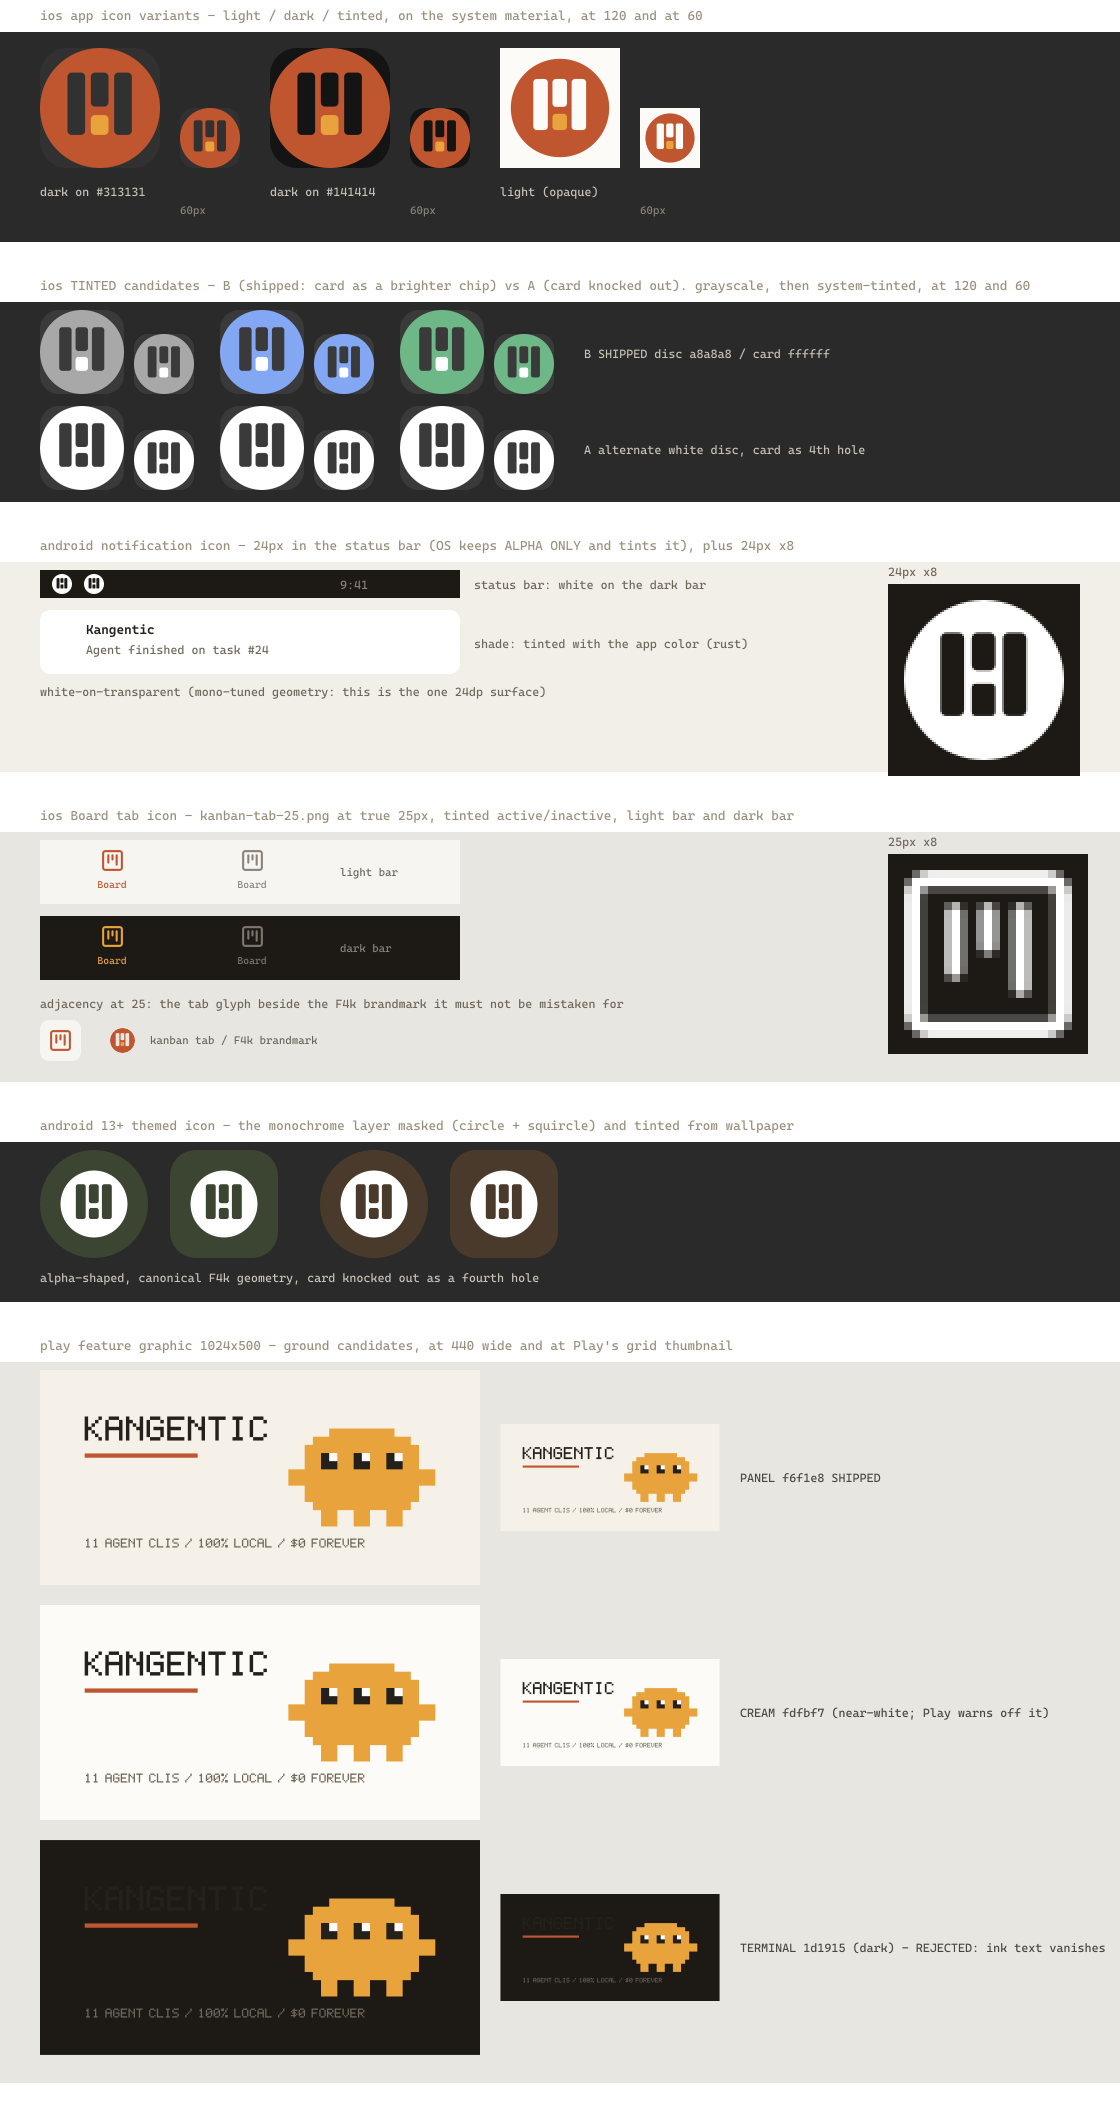
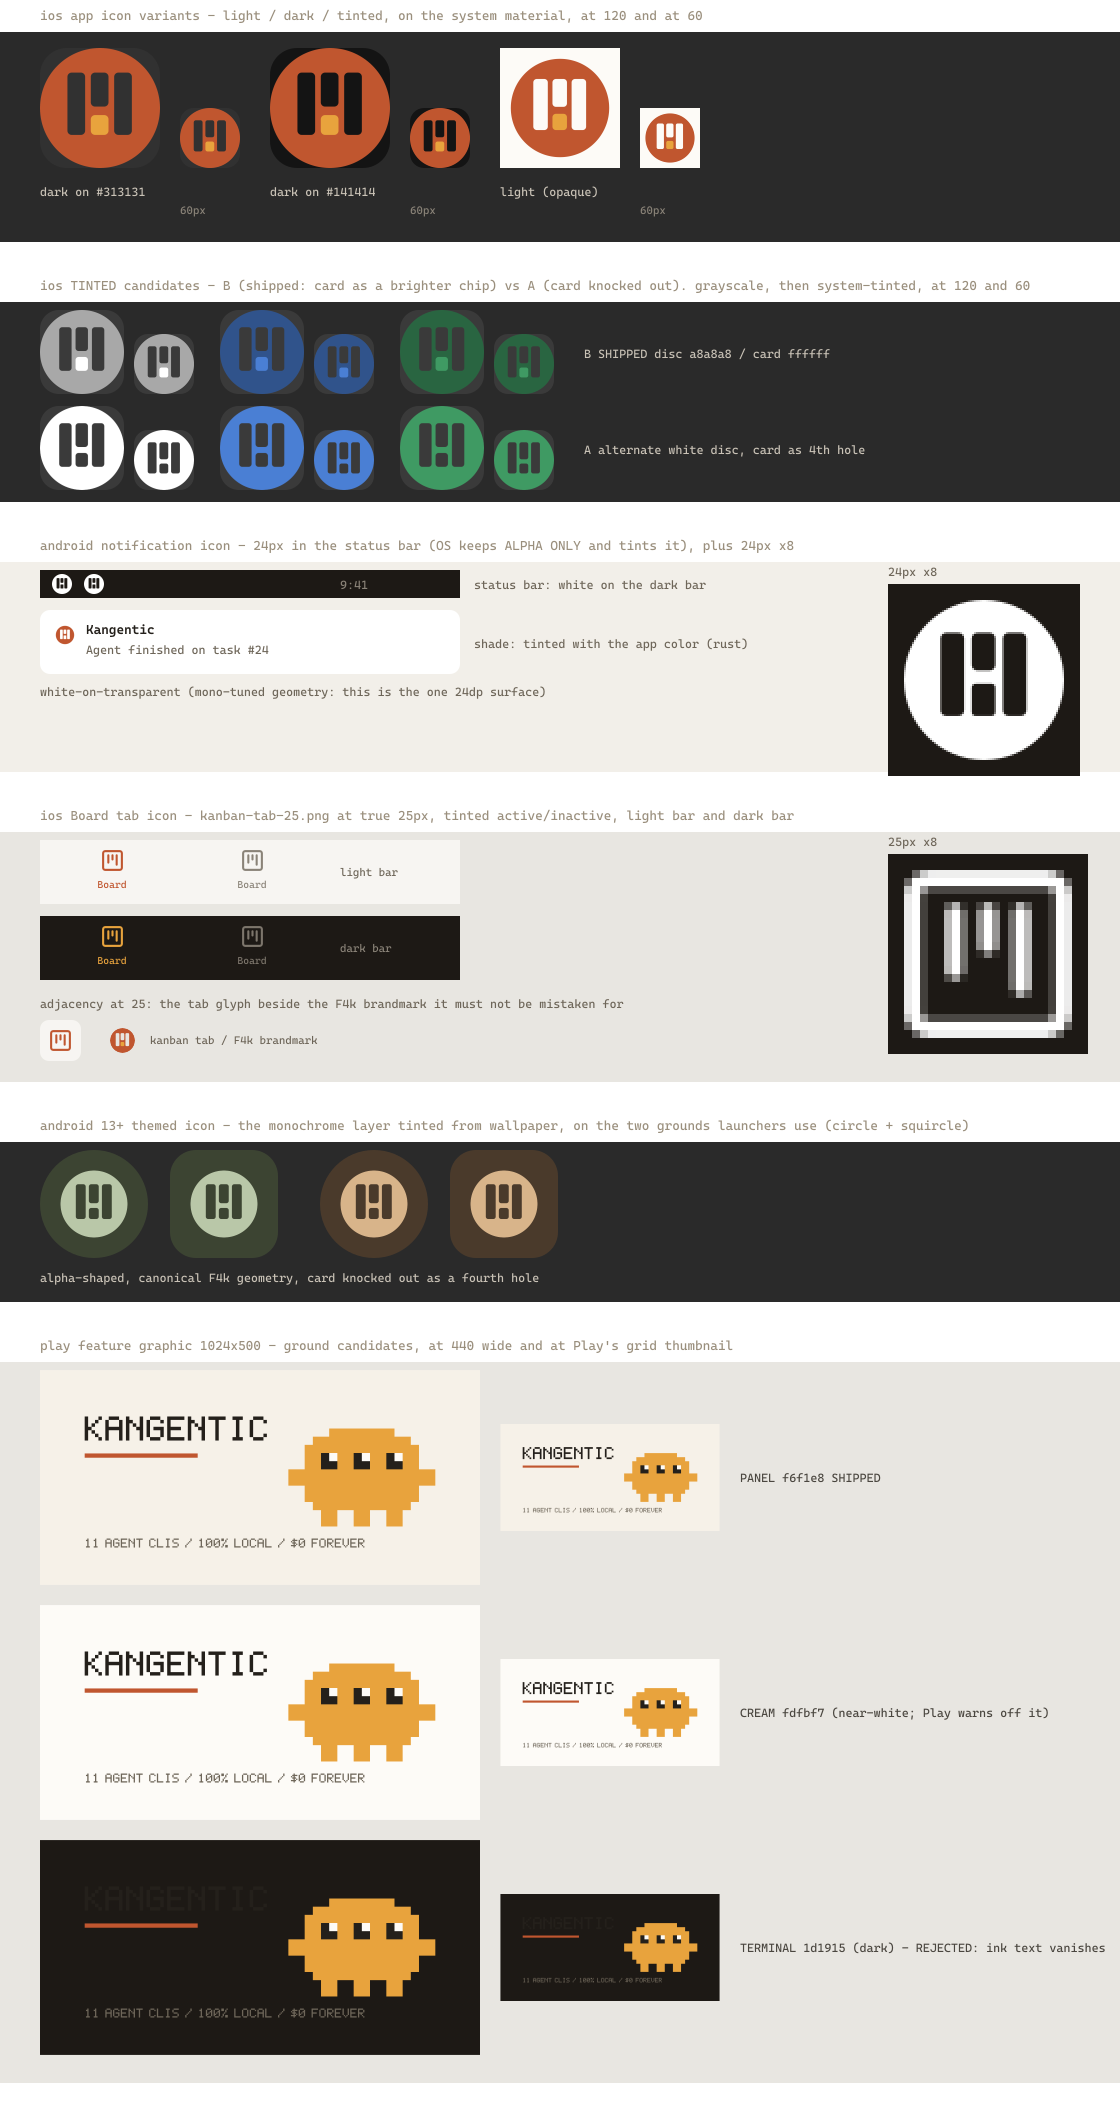
fix(record): render the tints the review sheet promises, correct the keyline claims
Two defects the retired Brand Review found and then dropped, both left
standing when that column went. Neither reaches a shipped asset, and both are
the class .claude/rules/brand-record-fidelity.md governs, so this is that
rule's first real test.

sharp's .tint() maps chroma in LAB with luminance preserved, so it cannot
move a white pixel: .tint("#c0562f") on 255,255,255 returns 255,255,255.
Three bands of exploration/review/mobile.png were built on it, and every
artwork they tint is white or near-white by design because these are
alpha-shaped OS surfaces. The notification icon was drawn white on a #ffffff
card and was invisible; the two Android themed tiles came out byte-identical
pure white under captions promising two different wallpaper tints; the tinted
band's candidate A rendered three identical cells, so the A-vs-B call that
band exists to settle could not be read off it. Measured before and after:
#b9c7a8, #d8b48a, #4a7fd4 and #3f9a63 each go from 0 pixels to 4.5k-5.6k, and
rust inside the shade card from 0 to 69.

The prescribed fix was not the shipped fix. Both the rule and the task said
`blend: 'dest-in'`; that appears nowhere in scripts/, and the repo already
had the alpha pattern in templateTinted, so the alpha-only surfaces reuse it.
The iOS tinted master is different in kind, genuinely grayscale (#a8a8a8
disc, #ffffff card), so a flat mask would have erased the very disc-vs-card
difference its band exists to judge; it takes a luminance ramp instead. Both
[…]

diff --git a/.claude/rules/activity-icon-geometry.md b/.claude/rules/activity-icon-geometry.md
@@ -22,14 +22,20 @@ is owned here to prevent.
 
 - All activity geometry is DECLARED once, in `scripts/lib/activity.mjs`. Every
   generator imports from it and declares none of its own.
-- **One grid, one stroke, one 18-unit layout SLOT.** 24 viewBox, stroke 2,
-  round caps and joins. Every mark's outline spans x 3 to 21. Within that slot
-  each form is sized **optically**, not stretched to a shared rectangle.
-  - The slot is the invariant because WIDTH is what aligns the row: icons in a
-    horizontal row behave like glyphs in a line of type, where width is the
-    advance and height is absorbed by centring. The counts beside these marks
-    already render `tabular-nums`, so slot parity is that same discipline
-    extended one element left. Height never contributed to that column.
+- **One grid, one stroke, TWO keylines - one per ROLE.** 24 viewBox, stroke 2,
+  round caps and joins. An INDICATOR is a 14px label in a counter row and sits
+  on the 18-unit slot, x 3 to 21. A CONTROL is a 20px target in a header and
+  sits on x 2 to 22 (`CONTROL_RING_R` = 10). Both spans are declared in
+  `KEYLINES` and a mark is assigned one by `keylineFor()`, on its id prefix.
+  Within its keyline each form is sized **optically**, not stretched to a
+  shared rectangle.
+  - A keyline is the invariant WITHIN A ROLE because width is what aligns the
+    row: icons in a horizontal row behave like glyphs in a line of type, where
+    width is the advance and height is absorbed by centring. The counts beside
+    these marks already render `tabular-nums`, so keyline parity is that same
+    discipline extended one element left. Height never contributed to that
+    column. Roles do not share a row, which is why they need not share a span:
+    a header's controls and a counter row's indicators are never adjacent.
   - **Geometric parity is not optical parity.** At an identical 18x18 box the
     ring encloses ~21% less area than the chip (a circle fills only pi/4 of its
     box) and carries 39% less ink. Forcing one silhouette onto every mark
@@ -43,6 +49,17 @@ is owned here to prevent.
     removes." That asserted an invariant the stock glyphs never had (their own
     mail was 20x16, loader 18 wide, circle 20 wide), conflated two separable
     properties, and ruled out the fix categorically rather than on evidence.
+  - Corrected again 2026-07-29, second pass. This bullet and the Enforcement
+    bullet below both used to read "Every mark's outline spans x 3 to 21",
+    asserting ONE keyline for the whole set. That had been false for the four
+    `control-*` marks since the per-role split: they ship at r=10, so they span
+    2 to 22, and `KEYLINES` has declared two spans since. Holding both roles to
+    one span is precisely what shrank the controls by 10 percent in 2.5.0. The
+    change that restored `CONTROL_RING_R = 10` and made the gate per-role
+    updated only the envelope half of this rule, so the sentence its own
+    decision had just falsified survived it. That is the point worth keeping:
+    this is the record-drift failure the same change was correcting, committed
+    by that change, in this file. It is why `brand-record-fidelity.md` exists.
 - **A flap ratio is not a flap angle.** Flap ratios are fractions of the box,
   so transplanting them onto a box of a different aspect does NOT carry the
   angle across: half-width moves with the width, depth moves with the height.
@@ -97,11 +114,28 @@ is owned here to prevent.
   regeneration. It also enforces the grid, `currentColor`, the dash pair, the
   declared reduced-motion rendering, the fill-mode ban, and that no file outside
   the lib re-declares a named geometry constant.
-- **Ink-width parity is mechanical.** The same check measures every shipped
-  mark's outline span and fails any mark that does not run x 3 to 21, so the
-  column-alignment property this set exists for is enforced rather than
-  reviewed. Verified to bite: promoting a 20-wide envelope reports
-  `agent-idle: outline spans x 2..22, not 3..21`.
+- **Keyline parity is mechanical, PER ROLE.** The same check measures every
+  shipped mark's outline span and fails any mark that runs off the keyline
+  `keylineFor()` gives it, so the column-alignment property this set exists for
+  is enforced rather than reviewed, without holding a 20px target to a 14px
+  label's extent. Verified to bite 2026-07-29 by reintroducing the 2.5.0
+  regression itself - setting `CONTROL_RING_R = 9`, regenerating so the
+  byte-equality assertion still passes, then running the gate:
+
+  ```
+  ACTIVITY  FAIL
+      - control-pause-idle: outline spans x 3..21, off its keyline 2..22 (20px target in a header)
+  ```
+
+  (one such line per control mark, four in total).
+- **The control keyline's span is written out, NOT derived from
+  `CONTROL_RING_R`.** It looks like a constant begging to be substituted, and
+  substituting it silently disables the check above: the keyline is the
+  SPECIFICATION and the ring radius is the implementation, so coupling them
+  makes the assertion compare a value to itself. Verified 2026-07-29: with
+  `CONTROL_RING_R = 9` and the keyline derived from it, the four findings quoted
+  above disappear and `ACTIVITY` reports PASS on the exact regression it exists
+  to catch. This is the one place in the lib where an inline number is correct.
 - **Release gate (blocking):** `npm run gen:activity` runs in the determinism
   gate alongside the other generators.
 

diff --git a/.claude/rules/brand-record-fidelity.md b/.claude/rules/brand-record-fidelity.md
@@ -48,16 +48,42 @@ every case the bytes were exactly what the generator produced.
 - **A review artifact must RENDER what its caption claims.** The sheets under
   `exploration/` are the evidence a human signs off from, so a caption that
   overstates them is worse than no caption. Verify the mock actually
-  demonstrates its effect before trusting it. Known live instance: `sharp()`'s
+  demonstrates its effect before trusting it. The worked instance: `sharp()`'s
   `.tint()` preserves LAB luminance and therefore cannot recolor pure white, so
-  three bands of `exploration/review/mobile.png` render white on white and
-  demonstrate nothing. Compositing through alpha (`blend: 'dest-in'`) is the
-  fix.
+  three bands of `exploration/review/mobile.png` rendered white on white and
+  demonstrated nothing.
+  - RESOLVED 2026-07-29, and the resolution is not what this bullet predicted.
+    It used to close "Compositing through alpha (`blend: 'dest-in'`) is the
+    fix", written before anyone had read `gen-review.mjs`. What shipped instead:
+    `dest-in` is nowhere in `scripts/`, and the repo already had the alpha
+    pattern in `templateTinted` (solid color, the artwork's alpha joined as the
+    mask), so the alpha-only surfaces reuse it - the notification icon and the
+    Android monochrome layer, joining the iOS tab raster that used it already.
+    The iOS tinted master is different in kind: it is genuinely grayscale
+    (`#a8a8a8` disc, `#ffffff` card), so a flat mask would have erased the very
+    disc-vs-card difference its band exists to judge. It takes a luminance ramp
+    (`systemTinted`) instead. One prescribed fix, two kinds of surface, two
+    different right answers - which is the argument for reading the code before
+    writing the remedy into a rule.
+  - Both helpers now call `assertRecolored`, which throws if any opaque pixel
+    survives the recolor still pure white. Verified to bite 2026-07-29 by
+    pointing `templateTinted` back at `.tint()`: `npm run gen:review` fails with
+    `notification-icon.png: an opaque pixel is still pure white after recoloring
+    to #c0562f`. That is the bullet below applied to this one.
+    - Scope it honestly: this is a GENERATOR assertion, not a CI gate.
+      `gen:review` is the one generator neither `ci.yml` nor `publish.yml` runs,
+      because its output is a review artifact exempt from byte determinism. So
+      it fires when the sheet is regenerated, which is the moment that matters
+      for a sheet, and never on a push that leaves the sheet alone.
 - **Prefer making a claim mechanical over restating it.** When a check can be
   expressed as an assertion, put it in `scripts/check-invariants.mjs` and note
   that it was verified to bite. `ANIMATION`'s `mountFrames` assertion and
   `ACTIVITY`'s byte-equality assertion are the pattern: both replaced a sentence
-  that could go stale with a test that cannot.
+  that could go stale with a test that cannot. Where the assertion needs sharp,
+  it goes in the generator instead, because the checker is deliberately sync and
+  dependency-free: `gen-ui.mjs`'s `assertTemplateImage` and `gen-review.mjs`'s
+  `assertRecolored` are that variant. Say which of the two a claim got, since
+  only the first runs in CI.
 
 ## Enforcement (self-maintaining)
 

diff --git a/.claude/rules/ui-glyph-geometry.md b/.claude/rules/ui-glyph-geometry.md
@@ -30,8 +30,10 @@ was created to end, starting over in a new place.
   so they sit level in the same row. Declaring a second copy of those numbers is
   the drift this repo's single-source rules exist to prevent, and
   `npm run check` fails on it.
-- **The slot fixes width, not height.** Every outline spans x 3 to 21, because
-  width is what aligns a row of icons the way an advance aligns a line of type.
+- **The slot fixes width, not height.** Every outline spans x 3 to 21 - the
+  activity set's INDICATOR keyline, which every ui glyph sits on (that set's
+  controls take a wider one, and nothing here is a control). Width is what
+  aligns a row of icons the way an advance aligns a line of type.
   Within the slot a form is sized OPTICALLY rather than stretched to a shared
   rectangle, per `activity-icon-geometry.md`. The kanban frame is square, so its
   slot and its box coincide; a future ui glyph need not be square.
